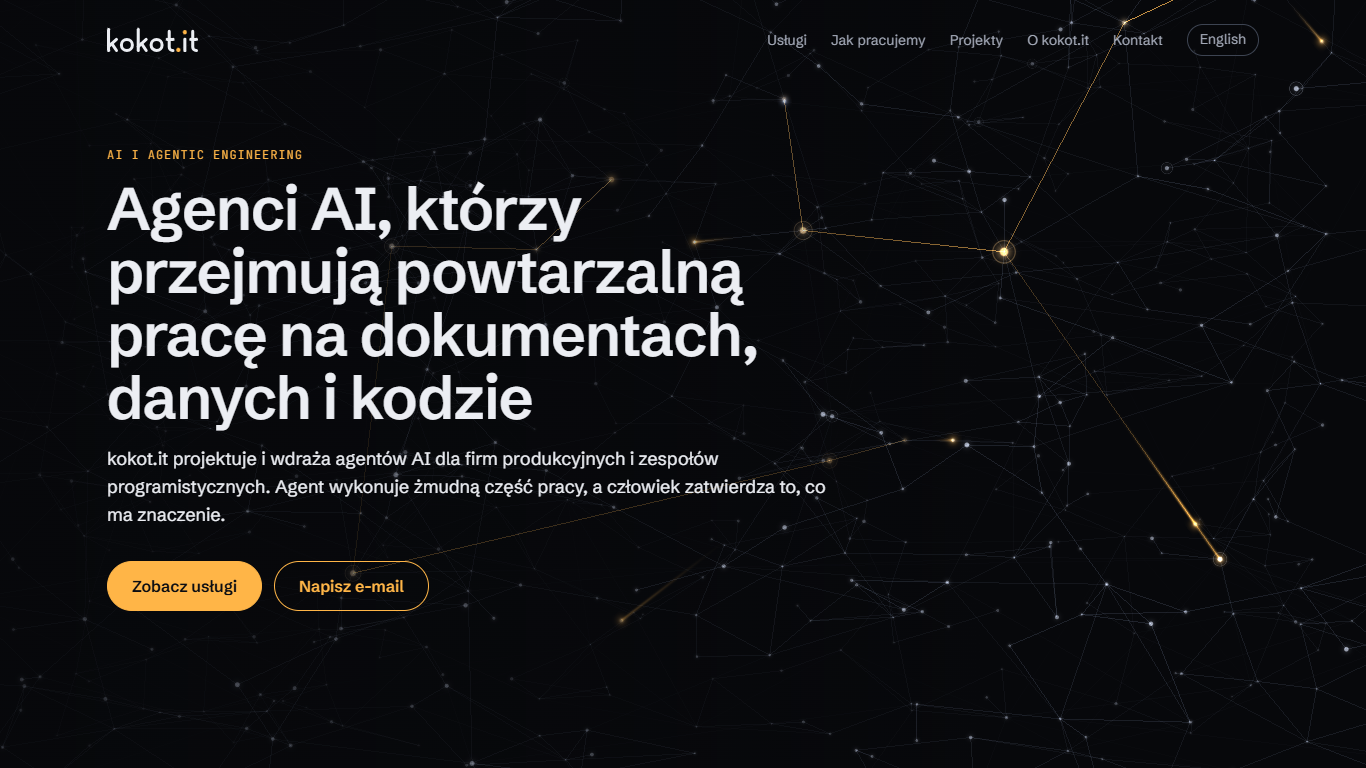
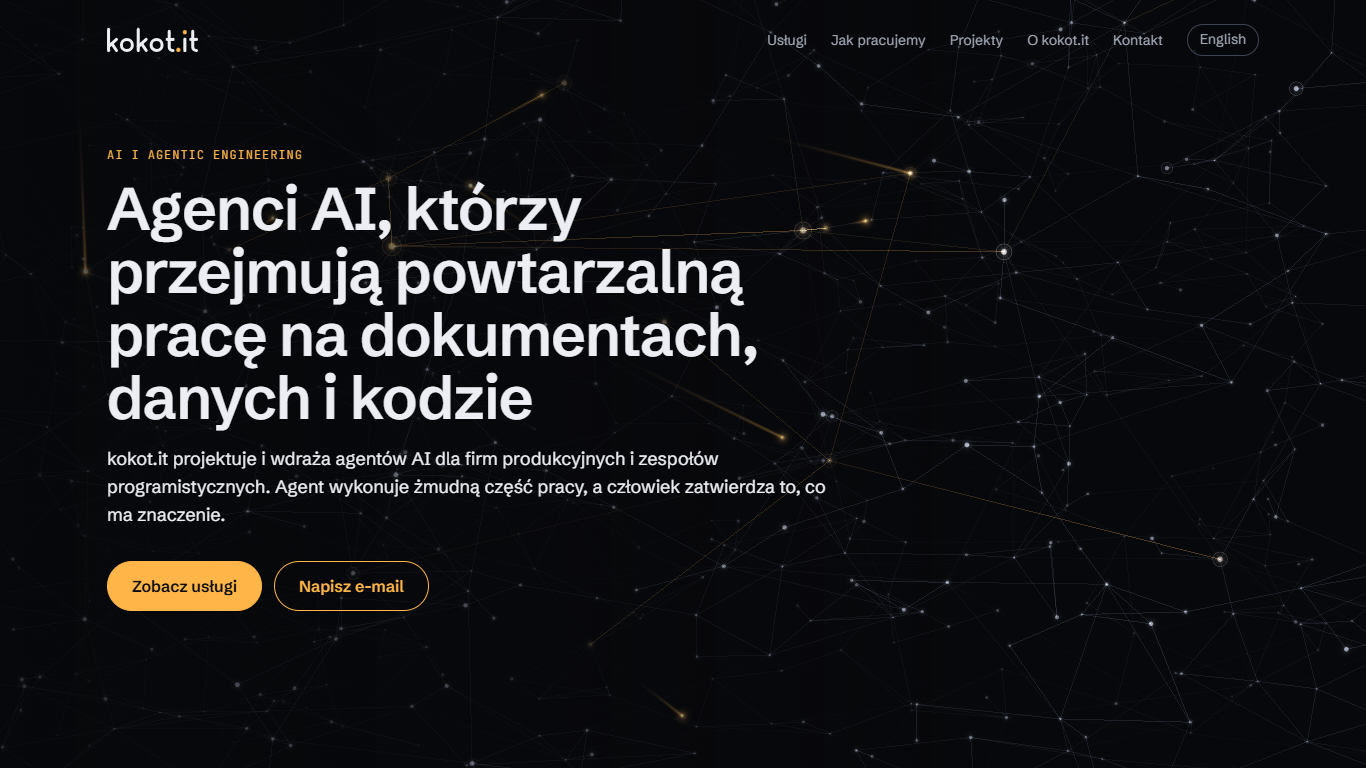
docs(scene): keep the concept as written and record deviations in the ledger

diff --git a/docs/concept.md b/docs/concept.md
@@ -12,12 +12,12 @@ laptop, smooth on a phone, Lighthouse mobile Performance ≥ 85, the scene is ne
 
 ## Options considered
 
-| Option                                | What it is                                                                                                                                                                                              | Strongest case against                                                                                                                                                 | Performance cost                                                                                                                                               | Reversal cost                                                                                                          |
-| ------------------------------------- | ------------------------------------------------------------------------------------------------------------------------------------------------------------------------------------------------------- | ---------------------------------------------------------------------------------------------------------------------------------------------------------------------- | -------------------------------------------------------------------------------------------------------------------------------------------------------------- | ---------------------------------------------------------------------------------------------------------------------- |
-| **A. Relay: a hand-off network** ✅   | A sparse 3D graph of agent nodes; warm pulses (tasks) travel along the links, cool ones (results) return; the cursor is a client order the network routes to; scrolling re-forms the graph per section. | Nodes and lines are the most common "technical" background (the particles.js plexus); if the pulses are too subtle, the scene collapses into exactly that cliché.      | Low: ~1–1.5k instanced nodes, ~3–4k segments, a few dozen pulses; a handful of draw calls, no render targets. CPU: BFS routing on a small graph, occasionally. | Before implementation: one document. After: rewrite `src/scene` (about 6 files, 1.5 days); tokens and pages unchanged. |
-| **B. Swarm: GPGPU boids** (runner-up) | 30–60k particles as boids on the GPU (ping-pong FBOs); the cursor is a target they fly to; sections arrange the swarm into formations.                                                                  | A swarm forming shapes is the most cloned WebGL showcase; it shows motion, not cooperation; float render targets are the first thing mid-range phones choke on.        | High: additive fill rate, 2 simulations per frame; on mobile it has to drop to ~8–16k and still risks < 45 fps.                                                | Before: one document. After: rewrite `src/scene` + GPGPU helpers (about 8 files, 2 days).                              |
-| **C. Mycelium: a growing network**    | Agents as tips exploring space (space colonisation) — the network grows from the cursor; scrolling completes the growth until the full graph at the contact section.                                    | Growth is a one-way story, spent after the first scroll; an organic look pulls the brand toward biology instead of engineering; geometry grows every frame on the CPU. | Medium and rising: geometry buffers resized on the fly, growth algorithm on the CPU (or in a worker).                                                          | Before: one document. After: rewrite `src/scene` and the worker (about 7 files, 2 days).                               |
-| **D. Static diagram** (minimum)       | No WebGL: one generated SVG network behind the hero, CSS parallax and a highlight following the cursor.                                                                                                 | Fails the brief: the site itself is meant to show front-end craft with real 3D, and a static diagram is what every agency template has.                                | Minimal.                                                                                                                                                       | Before: one document. Later: 1 SVG + 1 CSS, one hour.                                                                  |
+| Option                                | What it is                                                                                                                                                                                              | Strongest case against                                                                                                                                                 | Performance cost                                                                                                                                    | Reversal cost                                                                                                          |
+| ------------------------------------- | ------------------------------------------------------------------------------------------------------------------------------------------------------------------------------------------------------- | ---------------------------------------------------------------------------------------------------------------------------------------------------------------------- | --------------------------------------------------------------------------------------------------------------------------------------------------- | ---------------------------------------------------------------------------------------------------------------------- |
+| **A. Relay: a hand-off network** ✅   | A sparse 3D graph of agent nodes; warm pulses (tasks) travel along the links, cool ones (results) return; the cursor is a client order the network routes to; scrolling re-forms the graph per section. | Nodes and lines are the most common "technical" background (the particles.js plexus); if the pulses are too subtle, the scene collapses into exactly that cliché.      | Low: ~1–1.5k instanced nodes, ~3–4k segments, a few dozen pulses; 3 draw calls, no render targets. CPU: BFS routing on a small graph, occasionally. | Before implementation: one document. After: rewrite `src/scene` (about 6 files, 1.5 days); tokens and pages unchanged. |
+| **B. Swarm: GPGPU boids** (runner-up) | 30–60k particles as boids on the GPU (ping-pong FBOs); the cursor is a target they fly to; sections arrange the swarm into formations.                                                                  | A swarm forming shapes is the most cloned WebGL showcase; it shows motion, not cooperation; float render targets are the first thing mid-range phones choke on.        | High: additive fill rate, 2 simulations per frame; on mobile it has to drop to ~8–16k and still risks < 45 fps.                                     | Before: one document. After: rewrite `src/scene` + GPGPU helpers (about 8 files, 2 days).                              |
+| **C. Mycelium: a growing network**    | Agents as tips exploring space (space colonisation) — the network grows from the cursor; scrolling completes the growth until the full graph at the contact section.                                    | Growth is a one-way story, spent after the first scroll; an organic look pulls the brand toward biology instead of engineering; geometry grows every frame on the CPU. | Medium and rising: geometry buffers resized on the fly, growth algorithm on the CPU (or in a worker).                                               | Before: one document. After: rewrite `src/scene` and the worker (about 7 files, 2 days).                               |
+| **D. Static diagram** (minimum)       | No WebGL: one generated SVG network behind the hero, CSS parallax and a highlight following the cursor.                                                                                                 | Fails the brief: the site itself is meant to show front-end craft with real 3D, and a static diagram is what every agency template has.                                | Minimal.                                                                                                                                            | Before: one document. Later: 1 SVG + 1 CSS, one hour.                                                                  |
 
 **Choice: A — Relay.** It shows _cooperation_ (work handed between agents), not just motion, and
 fits a phone budget with a few thousand instances instead of a GPGPU simulation.
@@ -25,8 +25,14 @@ fits a phone budget with a few thousand instances instead of a GPGPU simulation.
 expensive on mobile. Weighting order: fidelity to the goal → reversibility → strength of evidence →
 repository conventions → speed.
 
-### Assumptions to verify
+### Measurements and assumptions
 
+- Measured when the concept was written: the scene was a placeholder (`src/scene/index.ts`, 37
+  lines, an empty `Scene`) — nothing was sunk into any option yet.
+- Measured: a no-WebGL path existed (`canvas.hidden = true` when the renderer throws).
+- Measured: `prefers-reduced-motion` was not handled in `src/` (added with this concept: motion
+  tokens and `--motion-scale` in `src/styles/tokens.css`).
+- Measured: three.js 0.186.1 (instancing, `ShaderMaterial`, WebGL2).
 - **Assumption (would reverse the choice):** a mid-range phone draws ~1.5k nodes + ~4k segments with
   pulses at 60 fps, while 30k+ GPGPU particles fall below 45 fps. Check: frame-time probe with
   DevTools CPU throttling and a Moto G class device profile.
@@ -54,8 +60,7 @@ What sets it apart from a plexus (originality anchors, mandatory):
 2. **Motion has a direction and a cause.** Every pulse follows a route (BFS) from the requester to
    an agent and comes back as a result of another colour. Nothing pulses "for decoration".
 3. **The cursor is a client, not a magnet.** The cursor does not push points away; when it rests
-   (~300 ms) the network sends work out from the node under it and the result comes back — the page
-   "answers".
+   (~300 ms) the network sends a result to it — the page "answers".
 4. **Silence as the base state.** At rest motion is sparse (a few pulses per second) and links are
    barely visible. It is a background for the content, not a screensaver.
 
@@ -71,19 +76,23 @@ Transitions take `--duration-scene` (1400 ms) with `--ease-in-out`; the active s
 | Projects | 4 constellations (the 4 showcase projects); hovering a project card fires a series of hand-offs in its constellation.        | working runs, not slides                  |
 | Contact  | All routes converge on one node next to the e-mail address; the network quietens to a few pulses.                            | one point of contact                      |
 
+On content pages (project case studies) the scene runs in a "background" mode: lower brightness,
+no interaction.
+
 ### Performance
 
 - Nodes: instanced quads with the circle and glow drawn in the fragment shader; links: one
-  `LineSegments` with an "activity" attribute; pulses: a pool of instances.
+  `LineSegments` with an "activity" attribute; pulses: a pool of instances. 3 draw calls in total.
 - Motion computed in the vertex shader from `uTime` (node drift); the CPU only plans pulse routes
   (BFS on the graph, a few times per second).
-- Adaptive quality: start from a level chosen by `hardwareConcurrency` and screen width (phones get
-  fewer nodes and DPR ≤ 1.5), then measure the mean frame time — above 20 ms for 2 s lowers the level
+- Adaptive quality: start from a level chosen by `hardwareConcurrency` and screen width (mobile:
+  ~600 nodes, DPR ≤ 1.5), then measure the mean frame time — above 20 ms for 2 s lowers the level
   (node count, DPR, glow); it never goes back up during a session (no pumping).
 - Paused off screen (`IntersectionObserver` on the canvas) and in a hidden tab (`visibilitychange`);
   `requestAnimationFrame` is stopped, not just idle.
 - Lazy loading: three.js and the scene live in a separate chunk loaded with a dynamic `import()`
-  after the content has rendered (`requestIdleCallback`).
+  after the content has rendered (`requestIdleCallback`); until then the background is the static
+  still (below).
 
 ### Fallbacks
 
@@ -91,7 +100,7 @@ Transitions take `--duration-scene` (1400 ms) with `--ease-in-out`; the active s
   and a static still of the network is shown instead — the deterministic graph from
   `src/scene/relay-graph.ts` drawn as SVG with the scene tokens. Preview: `/brand/`.
 - **`prefers-reduced-motion: reduce`**: `--motion-scale` = 0 — no drift and no autonomous pulses;
-  the scene renders one still frame, section changes cut to the new layout instead of re-forming,
+  the scene renders one still frame, section changes are a short cross-fade instead of re-forming,
   and the cursor starts no animation. Content and navigation are unchanged.
 - **Weak hardware** (the lowest quality level still above 20 ms per frame): the same static still as
   without WebGL.

diff --git a/docs/superpowers/decisions/relay-scene.md b/docs/superpowers/decisions/relay-scene.md
@@ -4,8 +4,13 @@
 - 2026-10-22 · standards · Node counts sit well below the concept's performance budget (760 desktop, 440 phone instead of ~1–1.5k / ~600); the quality test now treats the concept numbers as a ceiling — at 1400 nodes the hero read as a dense plexus, against "silence as the base state" · self
 - 2026-10-22 · spec · No SVG still is shown while three.js loads; the canvas fades in over the page background — a 2D still cross-fading into a different 3D layout read as a glitch and costs paint before LCP · self
 - 2026-10-22 · spec · Under `prefers-reduced-motion` a section change cuts to the new static frame instead of a short cross-fade — the reduced-motion tokens collapse every duration to 1 ms by design · self
-- 2026-10-22 · spec · Offer and project cards are 72 % opaque so the clusters and constellations behind them stay perceptible; on wide screens the three service clusters sit behind the three offer columns, so a hovered offer lights the cluster behind it — text contrast was measured from rendered pixels instead of tokens (p95 background ≥ 4.82:1 over 802 text runs, desktop and mobile) · self
+- 2026-10-22 · spec · Offer and project cards are 72 % opaque so the clusters and constellations behind them stay perceptible; on wide screens the three service clusters sit behind the three offer columns, so a hovered offer lights the cluster behind it — text contrast was measured from rendered pixels instead of tokens (p95 background ≥ 4.62:1 over 817 text runs, desktop and mobile, at every scroll step) · self
 - 2026-10-22 · standards · Metric-matched local fallback fonts (`size-adjust`, ascent/descent overrides) added to fonts.css and the font stacks — removes a CLS of 0.34 on /en/ mobile that already existed on main and kept Performance at 79, below the required 85 · self
 - 2026-10-22 · spec · The scene runs on the two home pages only; case-study pages have no scene mount, so the concept's dimmed "background mode" for content pages is not implemented here · self
 - 2026-10-22 · standards · `renderer.ts`, `shaders.ts`, `app.ts` and `index.ts` have no unit tests — every decision they take is extracted into pure, tested modules (network, layouts, morph, routing, quality, input, still); the GPU and DOM parts are verified by Playwright screenshots, frame-time sampling and Lighthouse in Chromium · self
 - 2026-10-22 · spec · Not verified here: the concept's 5-second recognition test with three people, and frame times on a physical mid-range phone (measured on a laptop GPU and in mobile emulation only) · self
+- 2026-10-22 · spec · A resting cursor (or a tap) places an order at the nearest node: a task travels out from it and the result comes back to it — the concept says the network "sends a result to it"; showing the outgoing task first gives the returning result a visible cause · self
+- 2026-10-22 · standards · Four draw calls instead of three: a faint cursor-glow sprite is a separate quad — one extra call with a single quad is cheaper than folding the glow into every node fragment · self
+- 2026-10-22 · spec · "Pause off screen" can only trigger when the canvas is not rendered at all (print, a collapsed viewport), because the scene is a fixed backdrop; the effective pause is the hidden tab (`visibilitychange`) · self
+- 2026-10-22 · spec · On touch screens (no hover) the offer or project card crossing the middle of the viewport is the active card that lights its cluster or constellation · self
+- 2026-10-22 · spec · A last section shorter than half the viewport (contact on tall screens) also becomes active once it is fully in view, so convergence happens even when it never reaches the middle line · self
